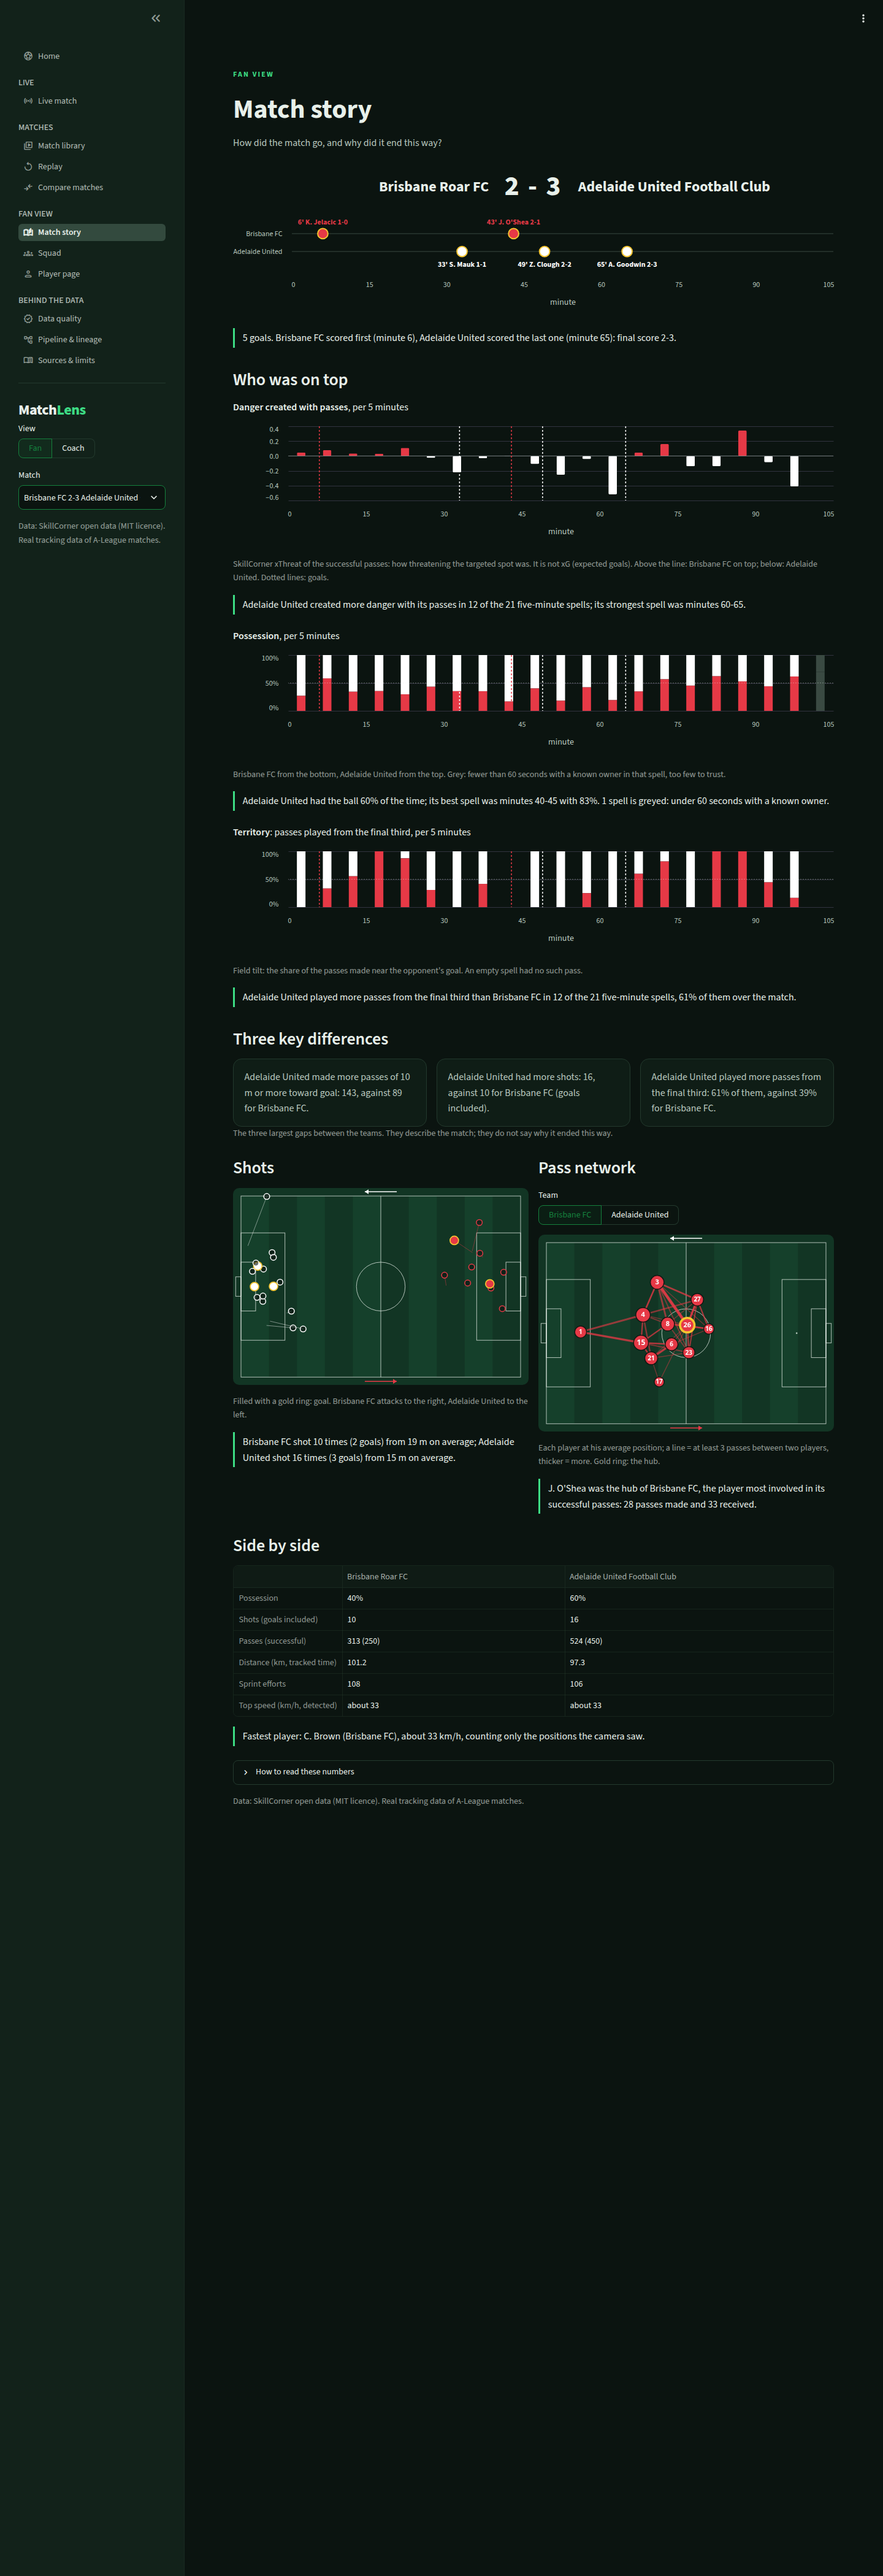
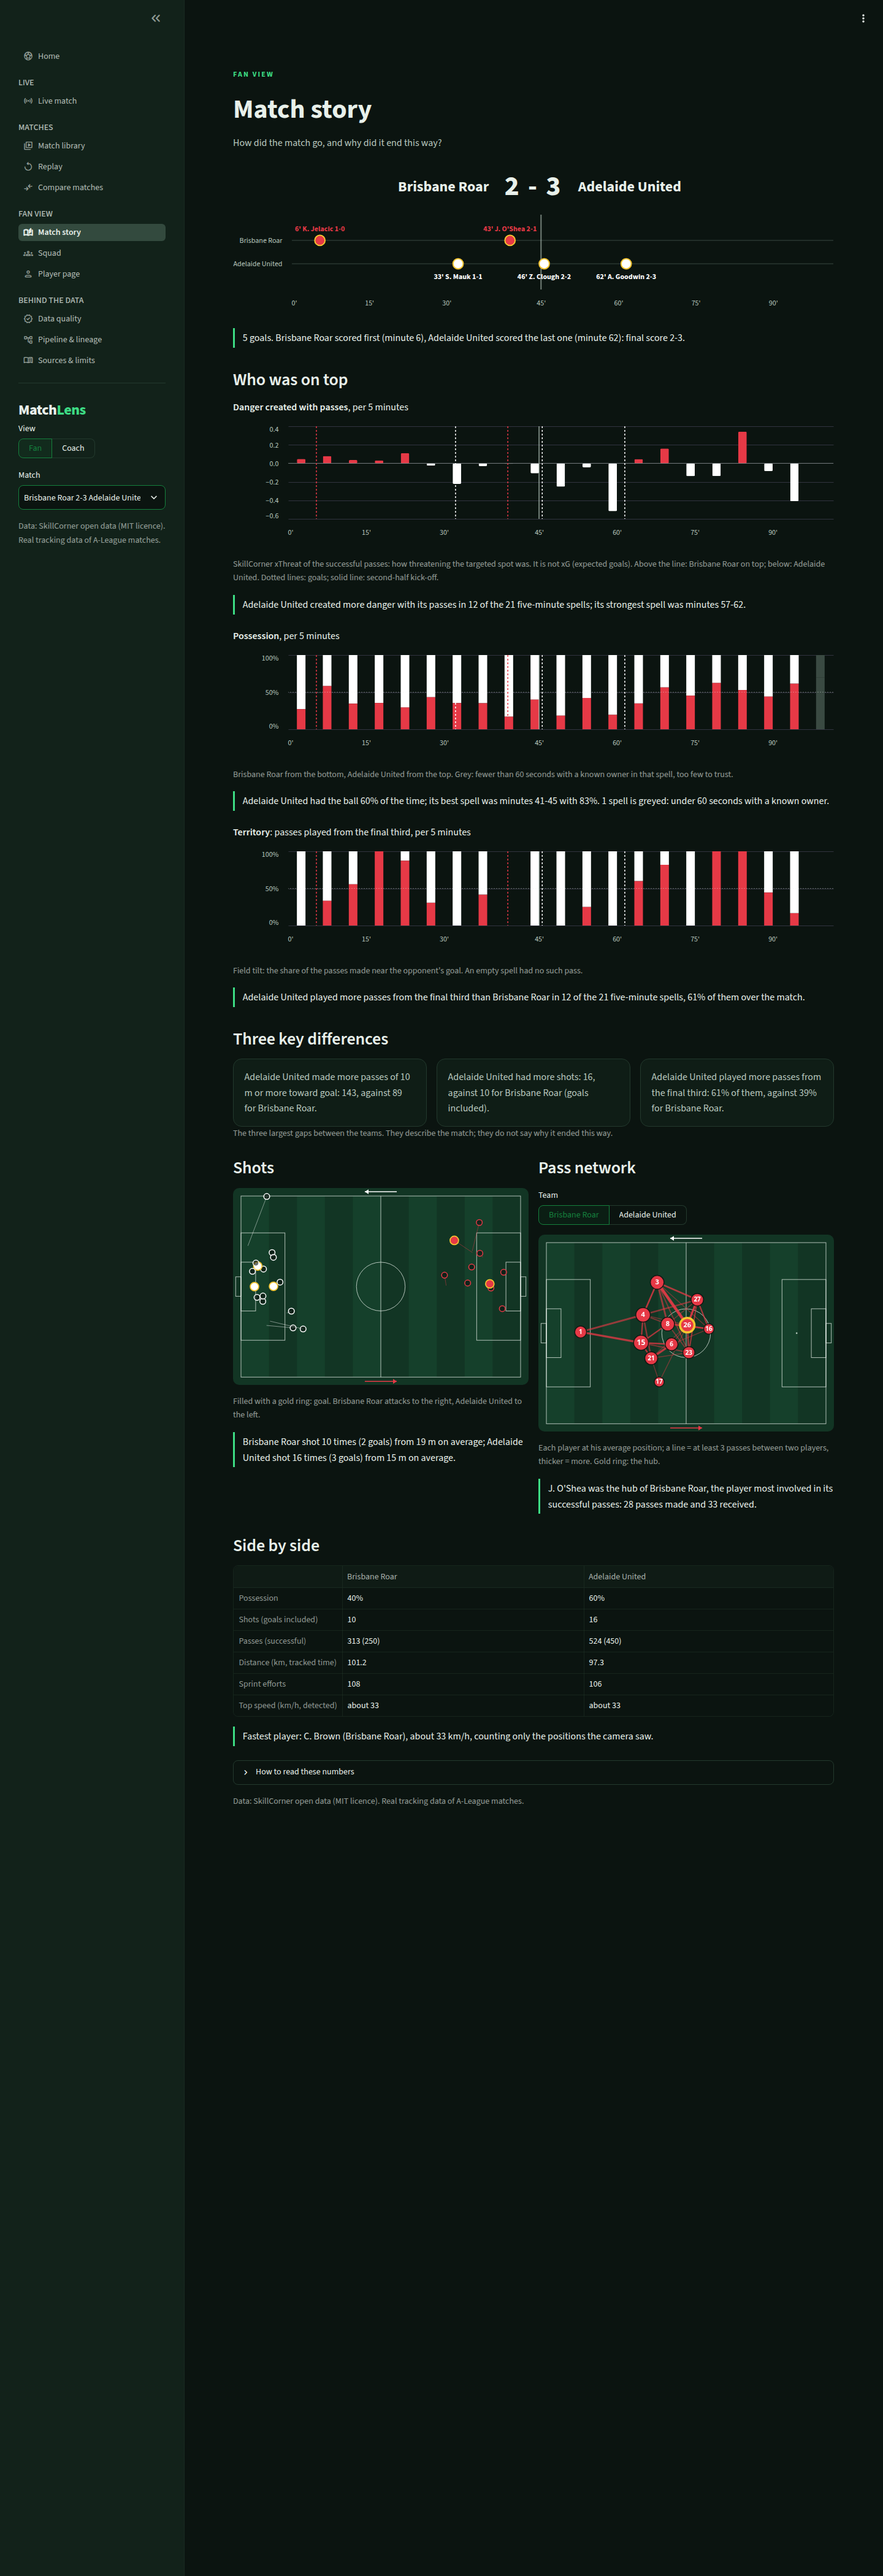
docs: record the external check of goal minutes and possession

diff --git a/docs/notes-fr.md b/docs/notes-fr.md
@@ -229,3 +229,33 @@ a fait le plus de passes » ne l'est pas. Il faut vérifier les chiffres **et** 
 
 - **Un modèle de langage pour écrire les phrases** : plus varié, mais impossible à garantir sans invention. Des modèles
   de phrases fixes, remplis avec Gold, se vérifient un par un.
+
+## Correction : l'horloge du football et le nom des équipes
+
+### Le problème
+
+Nos minutes venaient de `ts`, qui compte les secondes depuis le coup d'envoi **sans s'arrêter** : il inclut le temps
+additionnel de la première mi-temps et la pause. Le but de Clough apparaissait à la 49e, celui de Goodwin à la 65e,
+alors que le compte rendu officiel dit 46' et 63'.
+
+### Ce qui a été construit
+
+| Fichier | Rôle |
+|---|---|
+| `app/streamlit/clock.py` | une seule fonction pour la minute « comme à la télé » : 1re mi-temps 1'...45' puis 45+1', 2e mi-temps qui repart à 45:00 au second coup d'envoi, puis 90+1'. Utilisée par Live, Match story, la page joueur, Team analysis et les graphiques |
+| `dbt/seeds/team_names.csv` | le nom que les supporters utilisent pour les 13 équipes des données SkillCorner (« Brisbane Roar », pas « Brisbane FC ») |
+| `gold_match_library` | garde maintenant le début et la fin de chaque période, ce dont l'horloge a besoin |
+
+### Pourquoi c'est construit ainsi
+
+- **Une fonction, partout.** Si chaque page calculait sa minute, elles finiraient par ne plus être d'accord.
+- **Vérifier contre une source extérieure.** Les tests internes ne pouvaient pas voir l'erreur : ils comparaient nos
+  chiffres à nos chiffres. Le compte rendu du club et FBref l'ont montrée. Résultat : 6', 33', 43', 46', 62' pour m001
+  (le club écrit 63' pour Goodwin : notre donnée place son tir à 16 min 31 s de la 2e mi-temps, la 62e minute).
+- **Les noms dans une table, pas dans une règle.** Retirer « FC » donnerait « Sydney » pour Sydney FC ; une table de 13
+  lignes vérifiée à la main est plus sûre.
+
+### L'idée à retenir
+
+**Un test qui compare le système à lui-même ne trouve pas une erreur de définition.** Il faut au moins une vérification
+contre le monde réel.

diff --git a/docs/requirements-coverage.md b/docs/requirements-coverage.md
@@ -13,3 +13,17 @@
 | FOO-09 | Compare two matches, or cluster player profiles | OPT | Silver / Gold | in progress: team-level compare page done (clustering not done) | `make app`, page Compare matches (to add a screenshot) |
 
 Status: todo · in progress · done (with proof: command, file or screenshot).
+## External check against official sources
+
+Goal minutes come from `clock.py` (football clock: the second half restarts at 45:00 from its own kick-off,
+`p2_start_ts`, which is exactly the kick-off frame of `match.json`: m001 frame 29000 = ts 2899, m002 frame 30250 = ts
+3024). Possession is ours from `gold_team_profile.possession_share`. Checked on 2026-11-15.
+
+| Match | Ours | Official source | Agrees |
+|---|---|---|---|
+| m001 Brisbane Roar 2-3 Adelaide United, goals | 6' Jelacic, 33' Mauk, 43' O'Shea, 46' Clough, 62' Goodwin | [Brisbane Roar match wrap](https://brisbaneroar.com.au/news/alm-united-round-match-wrap-brisbane-roar-2-3-adelaide-united/): 6', 33', 43', 46', 63' | 4 of 5 exact; Goodwin one minute apart: his shot is 16:31.8 into the second half in the data (the 62nd minute); the club writes 63' |
+| m001 possession | Brisbane Roar 40 %, Adelaide United 60 % | [FBref match report](https://fbref.com/en/matches/9d2e447a/Brisbane-Roar-Adelaide-United): 39 % / 61 % | yes, within 1 point |
+| m002 Brisbane Roar 0-1 Perth Glory, goal | 69' Williams | [Brisbane Roar match wrap](https://brisbaneroar.com.au/news/alm-r9-match-wrap-brisbane-roar-0-1-perth-glory/), [AAP](https://aapnews.aap.com.au/news/glory-defeat-roar-to-end-18-game-alm-winless-streak): 69' (Perth Glory's own report: 70') | yes |
+| m002 possession | Brisbane Roar 63 %, Perth Glory 37 % | [FBref match report](https://aws.fbref.com/en/matches/f328e2b6/Brisbane-Roar-Perth-Glory-December-21-2024-A-League-Men): 64 % for Brisbane | yes, within 1 point |
+
+Tested in `tests/app/test_clock.py` (m001 goals, stoppage time, the running clock, 5-minute windows).

diff --git a/docs/contrat_donnees.md b/docs/contrat_donnees.md
@@ -326,7 +326,8 @@ warn the dashboard owner. Definitions and examples: [`../dbt/README.md`](../dbt/
 | Column | Type | Meaning |
 |---|---|---|
 | match_id, team_id | VARCHAR | keys |
-| team_name, team_short, team_color | VARCHAR | from `matches` (colour may be null or too dark to draw) |
+| team_name, team_color | VARCHAR | from `matches` (colour may be null or too dark to draw) |
+| team_short | VARCHAR | the name fans use (seed `team_names.csv`), else the source short name |
 | score, opponent_score | INTEGER | final score from this team's point of view |
 | distance_km | DOUBLE | sum of the players |
 | sprint_count, sprint_seconds | BIGINT | sums |
@@ -492,7 +493,9 @@ a 1 m grid whose nearest player, detected or not, is HOME).
 | Column | Type | Meaning |
 |---|---|---|
 | match_id | VARCHAR | |
-| home_team, away_team, home_team_short, away_team_short, home_color, away_color | VARCHAR | from `matches` |
+| home_team, away_team, home_color, away_color | VARCHAR | from `matches` |
+| home_team_short, away_team_short | VARCHAR | the name fans use (dbt seed `team_names.csv`: "Brisbane Roar", not the source's "Brisbane FC"); the source short name for a team not in the seed |
+| p1_start_ts, p1_end_ts, p2_start_ts, p2_end_ts | INTEGER | first and last second of each period: the app's football clock restarts the second half at 45:00 from `p2_start_ts` |
 | home_score, away_score | INTEGER | final score |
 | kickoff_utc | VARCHAR | ISO 8601, as in `matches` |
 | match_date | DATE | kick-off day (UTC) |
